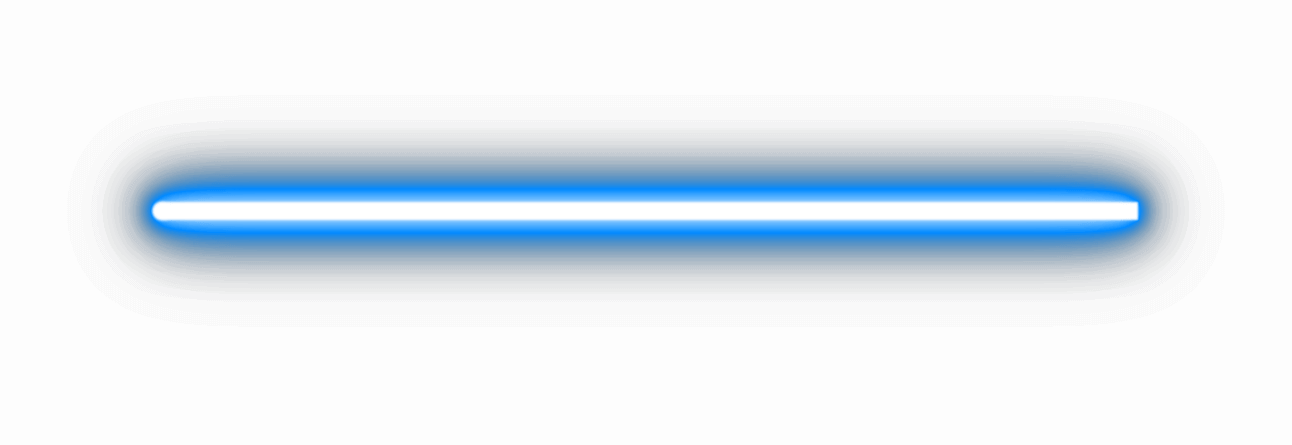
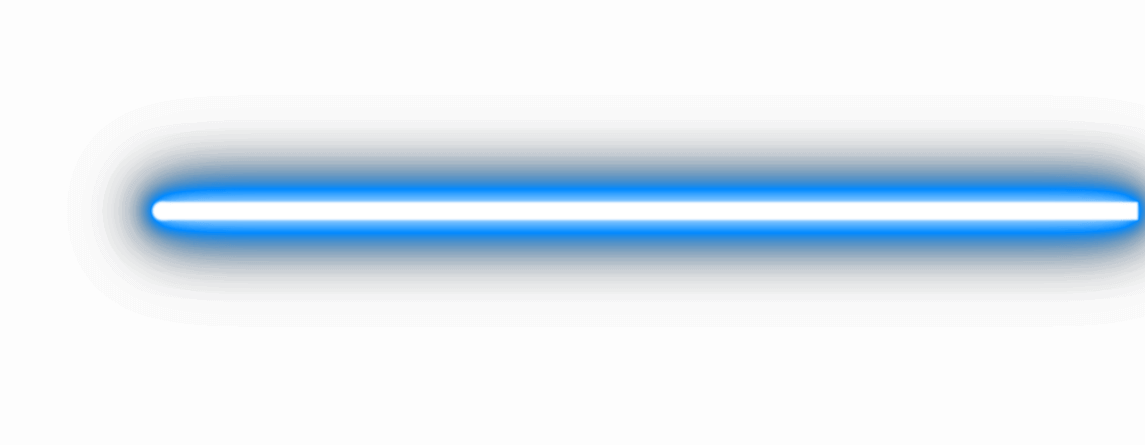
aligned lightsabers to front page aswell as size formats

Changed region(s): [[0.8559, 0.2921, 1.0, 0.6427], [0.0917, 0.3798, 0.1528, 0.5843]]

diff --git a/assets/css/style.css b/assets/css/style.css
@@ -88,13 +88,14 @@ body {
 
 #side-option {
   font-size: 50px;
-  width: 100%;
+  min-width: 100%;
   padding: 0;
   margin: 0;
 }
 
 .b-saber-container {
     text-align: right;
+    margin-top: 1vh;
 }
 
 .blue-saber {
@@ -104,25 +105,27 @@ body {
 }
 
 .light-button-container {
-  text-align: right;
+  text-align: left;
   width: 12.5vw;
+  height: 5vh;
+  margin-top: 4vh;
 }
 
 .light-side {
   font-size: 1.8vw;
   width: 12vw;
-  margin-right: 0.5vw;
 }
 
 .dark-button-container {
-  text-align: left;
+  text-align: right;
   width: 12.5vw;
+  height: 5vh;
+  margin-top: 4vh;
 }
 
 .dark-side {
   font-size: 1.8vw;
   width: 12vw;
-  margin-left: 0.5vw;
 }
 
 .r-saber-container {
@@ -144,4 +147,85 @@ body {
     margin-left: 0;
     margin-right: 0;
     width: 100%;
+}
+
+@media (max-width: 1000px) {
+  #side-option {
+      display: none;
+  }
+  .small-container {
+      min-width: 100%;
+      margin: 0;
+  }
+  .sm-light-button-container {
+      text-align: right;
+      width: 20vw;
+      height: auto;
+      padding: 0 0.5vw 10vh 0;
+  }
+  .sm-light-side {
+      font-size: 3vw;
+      width: 20vw;
+  }
+  .sm-dark-button-container {
+      text-align: left;
+      width: 20vw;
+      height: auto;
+      padding: 0 0 10vh 0.5vw;
+  }
+  .sm-dark-side {
+      font-size: 3vw;
+      width: 20vw;
+  }
+}
+
+@media (max-width: 700px) {
+  #side-option {
+      display: none;
+  }
+  .small-container {
+      min-width: 100%;
+      margin: 0;
+  }
+  .sm-light-button-container {
+      text-align: right;
+      width: 40vw;
+      height: auto;
+      padding: 0 0.5vw 10vh 0;
+  }
+  .sm-light-side {
+      font-size: 6vw;
+      width: 40vw;
+  }
+  .sm-dark-button-container {
+      text-align: left;
+      width: 40vw;
+      height: auto;
+      padding: 0 0 10vh 0.5vw;
+  }
+  .sm-dark-side {
+      font-size: 6vw;
+      width: 40vw;
+  }
+  .heading-container h2 {
+  font-size: 6vw;
+  }
+  #head-logo {
+  width: 80vw;
+}
+}
+
+@media (min-width: 1000px) {
+  .sm-light-button-container {
+      display: none;
+  }
+  .sm-light-side {
+      display: none;
+  }
+  .sm-dark-button-container {
+      display: none;
+  }
+  .sm-dark-side {
+      display: none;
+  }
 }

diff --git a/index.html b/index.html
@@ -64,19 +64,43 @@
           </div>
           <div class="col light-button-container">
             <a href="./quiz-light.html">
-              <button type="button" class="light-side btn btn-primary">
+              <button type="button" class="light-side btn btn-primary my-auto">
                 LIGHT SIDE
               </button>
             </a>
           </div>
           <div class="col dark-button-container">
             <a href="./quiz-dark.html">
-              <button type="button" class="dark-side btn btn-danger">DARK SIDE</button>
+              <button type="button" class="dark-side btn btn-danger my-auto">
+                DARK SIDE
+              </button>
             </a>
           </div>
-          <div class="col r-saber-container"><img class="red-saber" src="assets/images/red-saber.png" alt=""/></div>
+          <div class="col r-saber-container">
+            <img class="red-saber" src="assets/images/red-saber.png" alt="" />
+          </div>
         </div>
       </div>
+      <div class="container small-container">
+        <div class="row row-cols-2">
+          <div class="col sm-light-button-container">
+            <a href="./quiz-light.html">
+              <button
+                type="button"
+                class="sm-light-side btn btn-primary my-auto">LIGHT SIDE
+              </button>
+            </a>
+          </div>
+            <div class="col sm-dark-button-container">
+              <a href="./quiz-dark.html">
+                <button
+                  type="button"
+                  class="sm-dark-side btn btn-danger my-auto">DARK SIDE
+                </button>
+              </a>
+            </div>
+          </div>
+        </div>
     </section>
     <script src="https://ajax.googleapis.com/ajax/libs/jquery/2.1.1/jquery.min.js"></script>
     <script src="assets/js/script.js"></script>
